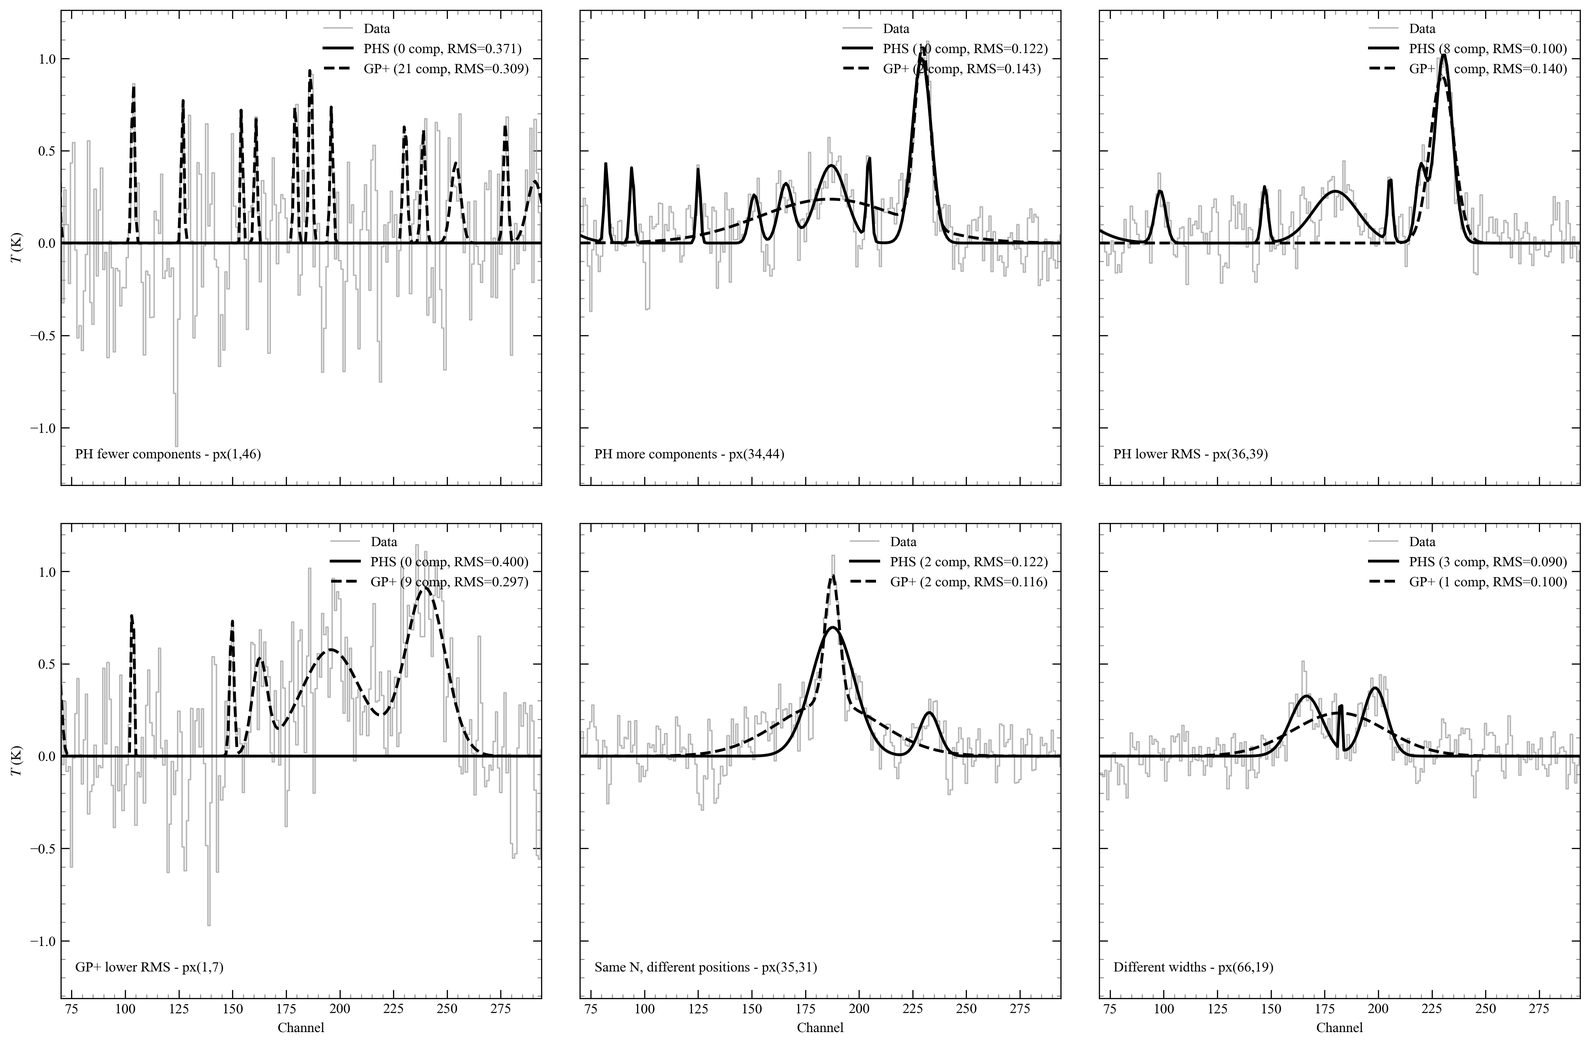
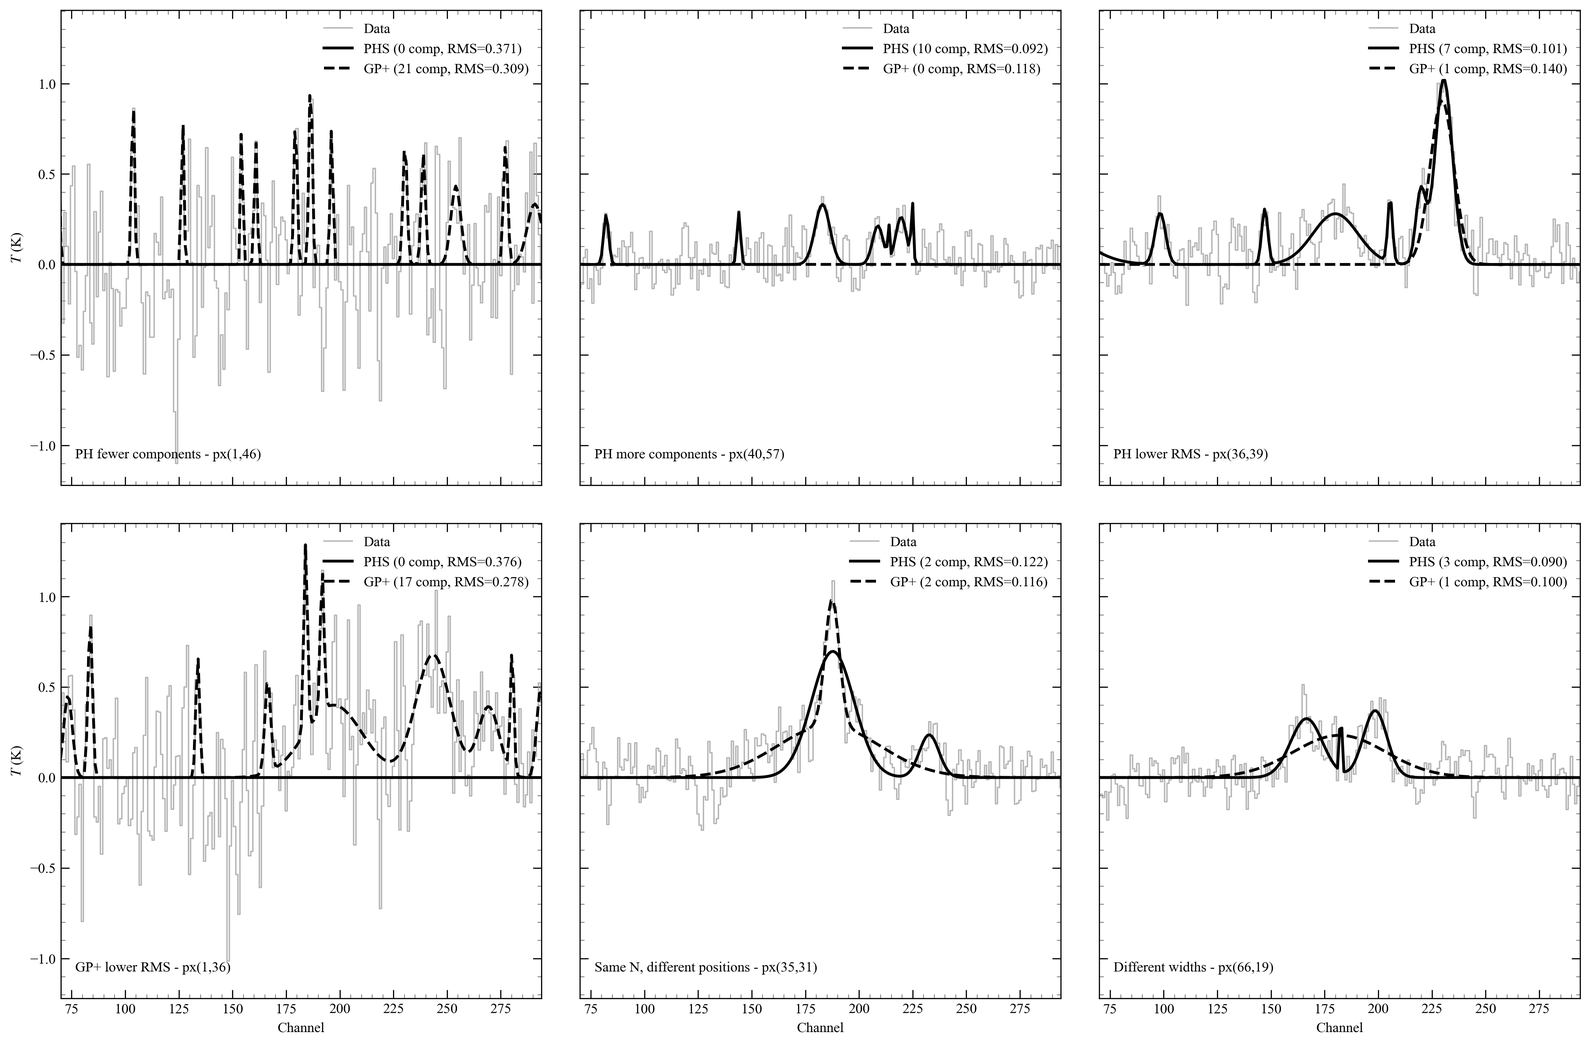
fix(phspectra): set default beta=3.5

diff --git a/packages/benchmarks/src/benchmarks/commands/train_synthetic.py b/packages/benchmarks/src/benchmarks/commands/train_synthetic.py
@@ -290,9 +290,9 @@ def _evaluate_one(args: _WorkItem) -> _EvalResult:
 
 @click.command("train-synthetic")
 @click.option("--n-per-category", default=50, show_default=True)
-@click.option("--beta-min", default=3.8, show_default=True)
+@click.option("--beta-min", default=2.0, show_default=True)
 @click.option("--beta-max", default=4.5, show_default=True)
-@click.option("--beta-steps", default=12, show_default=True)
+@click.option("--beta-steps", default=16, show_default=True)
 @click.option("--seed", default=2026_02_12, show_default=True)
 def train_synthetic(
     n_per_category: int,

diff --git a/packages/benchmarks/src/benchmarks/commands/pre_compute.py b/packages/benchmarks/src/benchmarks/commands/pre_compute.py
@@ -72,7 +72,7 @@ def _merge_extra_pixels(
 
 @click.command("pre-compute")
 @click.option("--n-spectra", default=None, type=int, help="Number of spectra (default: all eligible).")
-@click.option("--beta", default=3.8, show_default=True)
+@click.option("--beta", default=3.5, show_default=True)
 @click.option("--seed", default=DEFAULT_SEED, show_default=True)
 @click.option("--output-dir", default=os.path.join(CACHE_DIR, "compare-docker"), show_default=True)
 @click.option(

diff --git a/packages/benchmarks/src/benchmarks/commands/train_beta.py b/packages/benchmarks/src/benchmarks/commands/train_beta.py
@@ -76,7 +76,7 @@ def _load_training_set(
     show_default=True,
     help="Directory with spectra.npz from ``pre-compute``.",
 )
-@click.option("--beta-min", default=3.8, show_default=True)
+@click.option("--beta-min", default=2.0, show_default=True)
 @click.option("--beta-max", default=4.5, show_default=True)
 @click.option("--beta-steps", default=16, show_default=True)
 @click.option(

diff --git a/packages/benchmarks/src/benchmarks/commands/pipeline.py b/packages/benchmarks/src/benchmarks/commands/pipeline.py
@@ -220,7 +220,7 @@ def _poll_progress(
     "raw_params",
     multiple=True,
     type=str,
-    help="fit_gaussians param as key=value (e.g. --param beta=3.8).",
+    help="fit_gaussians param as key=value (e.g. --param beta=3.5).",
 )
 @click.option("--run-id", default=None, help="Resume polling an existing run (skip upload).")
 @click.option(

diff --git a/packages/infrastructure/lambda/worker/handler.py b/packages/infrastructure/lambda/worker/handler.py
@@ -242,7 +242,7 @@ def _process_chunk(chunk_key: str, survey: str, params: dict[str, object]) -> di
     y_coords = data["y"]
 
     fit_kwargs = _build_fit_kwargs(params)
-    beta = fit_kwargs.get("beta", 3.8)
+    beta = fit_kwargs.get("beta", 3.5)
 
     signal_mod.signal(signal_mod.SIGALRM, _alarm_handler)
     failed_indices: list[int] = []

diff --git a/packages/benchmarks/src/benchmarks/commands/pipeline_grs.py b/packages/benchmarks/src/benchmarks/commands/pipeline_grs.py
@@ -154,7 +154,7 @@ def _poll_all_progress(
     "raw_params",
     multiple=True,
     type=str,
-    help="fit_gaussians param as key=value (e.g. --param beta=3.8).",
+    help="fit_gaussians param as key=value (e.g. --param beta=3.5).",
 )
 @click.option(
     "--stall-timeout",

diff --git a/packages/phspectra/src/phspectra/decompose.py b/packages/phspectra/src/phspectra/decompose.py
@@ -379,7 +379,7 @@ def _refine_iteration(  # pylint: disable=too-many-arguments
 def fit_gaussians(
     signal: NDArray[np.floating],
     *,
-    beta: float = 3.8,
+    beta: float = 3.5,
     max_refine_iter: int = 3,
     snr_min: float = 1.5,
     mf_snr_min: float = 5.0,

diff --git a/packages/benchmarks/src/benchmarks/commands/inspect_pixel.py b/packages/benchmarks/src/benchmarks/commands/inspect_pixel.py
@@ -63,7 +63,7 @@ def _compute_zoom(
 )
 @click.option(
     "--betas",
-    default="3.65,3.80,3.95",
+    default="3.35,3.50,3.65",
     show_default=True,
     help="Comma-separated beta values.",
 )

diff --git a/packages/docs/docs/results/beta.md b/packages/docs/docs/results/beta.md
@@ -11,7 +11,7 @@ The main tuning parameter in phspectra is $\beta$, the persistence threshold in 
 We evaluated $\beta$ on two independent benchmarks:
 
 1. **Synthetic spectra** (350 spectra with known ground-truth components across 7 difficulty categories)
-2. **Real GRS spectra** (1000 pixels from the Galactic Ring Survey test field, scored against GaussPy+ catalog decompositions)
+2. **Real GRS spectra** (52 hand-curated spectra from the Galactic Ring Survey, scored against human-labeled decompositions)
 
 ### Synthetic data: controlled benchmark
 
@@ -31,7 +31,7 @@ The real-data benchmark above compares phspectra against GaussPy+ (another algor
 
 All spectra use GRS-realistic parameters: 424 channels with additive Gaussian noise at $\sigma = 0.25$ K. Because the true components are known exactly, $F_1$ measures _true accuracy_ rather than agreement with another algorithm.
 
-For each spectrum we sweep $\beta$ from 3.8 to 4.5, decompose with PHSpectra, and score using Hungarian matching with the [Lindner et al. (2015)](https://arxiv.org/abs/1409.2840) criteria.
+For each spectrum we sweep $\beta$ from 2.0 to 4.5, decompose with PHSpectra, and score using Hungarian matching with the [Lindner et al. (2015)](https://arxiv.org/abs/1409.2840) criteria.
 
 ```bash
 uv run benchmarks train-synthetic
@@ -43,14 +43,14 @@ uv run benchmarks train-synthetic
   <img src="/img/results/synthetic-f1.png" alt="Synthetic F1 vs beta" />
   <figcaption>
 
-**Figure 1.** $F_1$ score as a function of the persistence threshold $\beta$ for seven synthetic spectrum categories (350 spectra, $\sigma = 0.25$ K). Each panel groups categories by difficulty type; the solid line shows the overall $F_1$. Performance varies by only 0.015 across the full sweep from $\beta = 3.8$ to $4.5$. Generated by `uv run benchmarks train-synthetic`.
+**Figure 1.** $F_1$ score as a function of the persistence threshold $\beta$ for seven synthetic spectrum categories (350 spectra, $\sigma = 0.25$ K). Each panel groups categories by difficulty type; the solid line shows the overall $F_1$. Performance varies by only 0.040 across the full sweep from $\beta = 2.0$ to $4.5$. Generated by `uv run benchmarks train-synthetic`.
 
   </figcaption>
 </figure>
 
 The key observations:
 
-1. **$F_1$ varies by only 0.015** across the full $\beta$ sweep (0.899 at $\beta=3.8$ to 0.885 at $\beta=4.5$). This confirms that $\beta$ sensitivity is negligible on ground-truth data.
+1. **$F_1$ varies by only 0.040** across the full $\beta$ sweep (0.918 at $\beta=2.0$ to 0.885 at $\beta=4.5$, peaking at 0.925 at $\beta=2.8$). This confirms that $\beta$ sensitivity is low on ground-truth data.
 
 2. **The difficulty gradient follows expectations.** Multi-component separated spectra score highest, while blended multi-component spectra are the hardest. This validates that the benchmark categories genuinely span the difficulty spectrum.
 
@@ -60,32 +60,32 @@ The key observations:
   <img src="/img/results/synthetic-errors.png" alt="Synthetic error distributions" />
   <figcaption>
 
-**Figure 2.** Log-ratio error distributions $\ln(Q_{\rm fit} / Q_{\rm true})$ for matched component parameters at the optimal $\beta = 3.8$. From left to right: amplitude, position, and width. Box plots show the median and interquartile range for each category; the dashed line marks perfect recovery. Generated by `uv run benchmarks train-synthetic`.
+**Figure 2.** Log-ratio error distributions $\ln(Q_{\rm fit} / Q_{\rm true})$ for matched component parameters at the optimal $\beta = 2.8$. From left to right: amplitude, position, and width. Box plots show the median and interquartile range for each category; the dashed line marks perfect recovery. Generated by `uv run benchmarks train-synthetic`.
 
   </figcaption>
 </figure>
 
-In Figure 2, all three panels are tightly centred on zero for most categories. Position recovery is particularly precise, with log-ratios of order $10^{-3}$. The Single Faint (SF) and Multi Blended (MB) categories show the widest spread, consistent with their higher intrinsic difficulty.
+In Figure 2, all three panels are tightly centred on zero for most categories. Position recovery is particularly precise, with log-ratios of order $10^{-3}$. The Multi Blended (MB) category shows the widest spread, consistent with its higher intrinsic difficulty.
 
-The per-category $F_1$ at the optimal $\beta = 3.8$:
+The per-category $F_1$ at the optimal $\beta = 2.8$:
 
 | Category        | Label | $F_1$ |
 | --------------- | ----- | ----- |
-| Multi Separated | MS    | 0.979 |
-| Single Bright   | SB    | 0.971 |
-| Single Narrow   | SN    | 0.933 |
-| Single Broad    | SBd   | 0.932 |
-| Crowded         | C     | 0.921 |
-| Single Faint    | SF    | 0.769 |
-| Multi Blended   | MB    | 0.749 |
+| Multi Separated | MS    | 0.975 |
+| Single Bright   | SB    | 0.962 |
+| Single Broad    | SBd   | 0.952 |
+| Single Narrow   | SN    | 0.943 |
+| Crowded         | C     | 0.936 |
+| Single Faint    | SF    | 0.907 |
+| Multi Blended   | MB    | 0.820 |
 
 ### Limitation: tightly blended components
 
-The Multi Blended (MB) and Single Faint (SF) categories consistently score lowest across all $\beta$ values. The root cause is structural:
+The Multi Blended (MB) category consistently scores lowest across all $\beta$ values. The root cause is structural:
 
 **Persistence merges close peaks.** Persistent homology identifies peaks by their _prominence_: a feature must rise above its surrounding valley to register as a separate birth&ndash;death pair. When two Gaussians are separated by less than $\sim 2\sigma$, their sum looks like a single broad peak to the filtration &mdash; the weaker component appears as a shoulder rather than a distinct local maximum. In these cases the persistence diagram contains only one high-persistence feature where the ground truth has two, and the algorithm never gets a chance to fit the missing component.
 
-This is a known structural limitation of persistence-based peak detection for closely blended lines, shared with any prominence-based method. For spectra where components are separated by $> 3\sigma$, the algorithm performs well (MS category $F_1 = 0.979$); for separations below $\sim 2\sigma$, the merged persistence feature is the binding constraint.
+This is a known structural limitation of persistence-based peak detection for closely blended lines, shared with any prominence-based method. For spectra where components are separated by $> 3\sigma$, the algorithm performs well (MS category $F_1 = 0.975$); for separations below $\sim 2\sigma$, the merged persistence feature is the binding constraint.
 
 ### Real data: beta training
 
@@ -94,33 +94,33 @@ uv run benchmarks download
 uv run benchmarks train --training-set packages/train-gui/data/training_set.json
 ```
 
-Sweeping $\beta$ from 3.8 to 4.5 on 1000 GRS spectra shows a nearly flat $F_1$ curve (Figure 3):
+Sweeping $\beta$ from 2.0 to 4.5 on 52 hand-curated GRS spectra shows a gently peaked $F_1$ curve (Figure 3):
 
 <figure class="scientific">
   <img src="/img/results/f1-beta-sweep.png" alt="Beta training on GRS spectra" />
   <figcaption>
 
-**Figure 3.** $F_1$, precision, and recall as a function of $\beta$ on 1000 real GRS spectra, scored against hand-curated training set decompositions. The large precision--recall gap reflects unlabeled components in the curated set rather than false detections (see text). Generated by `uv run benchmarks train --training-set packages/train-gui/data/training_set.json`.
+**Figure 3.** $F_1$, precision, and recall as a function of $\beta$ on 52 real GRS spectra, scored against hand-curated training set decompositions. The large precision--recall gap reflects unlabeled components in the curated set rather than false detections (see text). Generated by `uv run benchmarks train --training-set packages/train-gui/data/training_set.json`.
 
   </figcaption>
 </figure>
 
-Considering these results and the ones from the previous section, I decided to set the default $\beta = 3.8$. However, the variation across the entire sweep is only $\Delta F_1 \approx 0.015$ &mdash; the algorithm is remarkably stable.
+The optimal $\beta$ on real data is 3.67 ($F_1 = 0.576$, $P = 0.426$, $R = 0.888$), with $F_1$ variation of 0.084 across the sweep. Combining these results with the synthetic benchmark (optimal $\beta = 2.8$), I set the default $\beta = 3.5$ as a compromise that favours precision on real data while remaining well within the flat region of the synthetic curve.
 
 #### Interpreting precision and recall
 
 Figure 3 shows a large gap between recall ($\approx 0.9$) and precision ($\approx 0.4$). The training set here consists of hand-curated decompositions from real GRS spectra, so these metrics are measured against human-labeled ground truth.
 
-**Recall $\approx 0.9$ (good).** PHSpectra recovers about 90% of the components in the curated training set. When a human labels a feature as a real component, PHSpectra almost always finds it. Very few labeled components are missed.
+**Recall $\approx 0.89$ (good).** PHSpectra recovers about 89% of the components in the curated training set. When a human labels a feature as a real component, PHSpectra almost always finds it. Very few labeled components are missed.
 
-**Precision $\approx 0.4$ (needs context).** Only about 40% of PHSpectra's detected components have a matching component in the curated set. This means PHSpectra consistently finds more components than the human labeler marked. These extra detections fall into two categories:
+**Precision $\approx 0.43$ (needs context).** Only about 43% of PHSpectra's detected components have a matching component in the curated set. This means PHSpectra consistently finds more components than the human labeler marked. These extra detections fall into two categories:
 
 - **Real features the labeler did not annotate.** Hand-curated sets are rarely exhaustive &mdash; faint or partially blended lines may be left unlabeled, particularly in crowded regions. PHSpectra's persistence-based detection can resolve features that are easy to overlook during manual inspection.
 - **Possible over-decomposition.** Some of the extra components may split a single broad feature into multiple narrower ones, producing a valid but different decomposition.
 
 The key observation is that this precision/recall split is **stable across the full $\beta$ sweep**: raising $\beta$ does not meaningfully improve precision, because the extra components are not noise artifacts (those would vanish at higher $\beta$). They reflect genuine detections that fall outside the scope of the curated labels.
 
-This interpretation is supported by the synthetic benchmark, where ground truth is known exactly: there, precision and recall are both high ($F_1 = 0.899$), confirming that PHSpectra does not systematically hallucinate components.
+This interpretation is supported by the synthetic benchmark, where ground truth is known exactly: there, precision and recall are both high ($F_1 = 0.925$), confirming that PHSpectra does not systematically hallucinate components.
 
 ## Why this matters
 
@@ -128,8 +128,8 @@ GaussPy requires a trained smoothing parameter $\alpha$ that is sensitive to the
 
 In contrast, PHSpectra's $\beta$ parameter is:
 
-- **Survey-agnostic**: values in the range $\beta = 3.8$&ndash;$4.0$ work well across both real and synthetic data with fundamentally different noise structures.
-- **Robust to perturbation**: performance degrades gracefully rather than collapsing at non-optimal values. There is no cliff &mdash; the $F_1$ curve is flat.
-- **Physically interpretable**: $\beta$ directly controls the minimum significance (in $\sigma$) for a peak to be considered real. A value of $\beta = 3.8$ means "reject anything less significant than a $3.8\sigma$ fluctuation," which is a natural and intuitive threshold.
+- **Survey-agnostic**: values in the range $\beta = 2.8$&ndash;$3.7$ work well across both real and synthetic data with fundamentally different noise structures.
+- **Robust to perturbation**: performance degrades gracefully rather than collapsing at non-optimal values. There is no cliff &mdash; both $F_1$ curves vary by less than 0.09 across the full $2.0$&ndash;$4.5$ sweep.
+- **Physically interpretable**: $\beta$ directly controls the minimum significance (in $\sigma$) for a peak to be considered real. A value of $\beta = 3.5$ means "reject anything less significant than a $3.5\sigma$ fluctuation," which is a natural and intuitive threshold.
 
-The default value of $\beta = 3.8$ is recommended for general use.
+The default value of $\beta = 3.5$ is recommended for general use.

diff --git a/packages/docs/docs/idea-and-plan/persistent-homology-primer.md b/packages/docs/docs/idea-and-plan/persistent-homology-primer.md
@@ -86,14 +86,14 @@ The persistence diagram provides a compact summary of every birth-death event in
   <img src="/img/results/persistence-diagram.png" alt="Persistence diagram" />
   <figcaption>
 
-**Figure 2.** Persistence diagram for the synthetic spectrum of Figure 1. Each point represents a birth--death pair $(b, d)$; distance from the diagonal $b = d$ equals persistence. The three real peaks (red) are clearly separated from noise points clustered near the diagonal. The dashed line marks the persistence threshold $\pi_{\min} = \beta \times \sigma_{\rm rms}$ with $\beta = 3.8$ and $\sigma_{\rm rms} = 0.08$. Generated by `uv run benchmarks persistence-plot`; see [Reproducing results](../results/reproducing).
+**Figure 2.** Persistence diagram for the synthetic spectrum of Figure 1. Each point represents a birth--death pair $(b, d)$; distance from the diagonal $b = d$ equals persistence. The three real peaks (red) are clearly separated from noise points clustered near the diagonal. The dashed line marks the persistence threshold $\pi_{\min} = \beta \times \sigma_{\rm rms}$ with $\beta = 3.5$ and $\sigma_{\rm rms} = 0.08$. Generated by `uv run benchmarks persistence-plot`; see [Reproducing results](../results/reproducing).
 
   </figcaption>
 </figure>
 
-In Figure 2, the three real peaks (red points) are clearly separated from the cluster of noise points hugging the diagonal. The dashed line parallel to the diagonal marks the persistence threshold $\pi_{\min} = \beta \times \sigma_{\rm rms}$. For this synthetic signal ($\sigma_{\rm rms} = 0.08$, $\beta = 3.8$), the threshold is $\pi_{\min} = 0.30$. Points below this line -- farther from the diagonal -- have persistence exceeding $\pi_{\min}$ and are retained as real peaks. Points above the line are rejected as noise.
+In Figure 2, the three real peaks (red points) are clearly separated from the cluster of noise points hugging the diagonal. The dashed line parallel to the diagonal marks the persistence threshold $\pi_{\min} = \beta \times \sigma_{\rm rms}$. For this synthetic signal ($\sigma_{\rm rms} = 0.08$, $\beta = 3.5$), the threshold is $\pi_{\min} = 0.28$. Points below this line -- farther from the diagonal -- have persistence exceeding $\pi_{\min}$ and are retained as real peaks. Points above the line are rejected as noise.
 
-The visual gap between signal and noise in Figure 2 illustrates why $\beta$ is insensitive: any threshold line drawn through this gap selects the same three peaks. Moving $\beta$ from 3.8 to 4.5 shifts the line slightly but does not change which points it separates -- the result is stable across a wide range of thresholds.
+The visual gap between signal and noise in Figure 2 illustrates why $\beta$ is insensitive: any threshold line drawn through this gap selects the same three peaks. Moving $\beta$ from 3.5 to 4.5 shifts the line slightly but does not change which points it separates -- the result is stable across a wide range of thresholds.
 
 This is the fundamental advantage over derivative-based methods: instead of relying on regularization to suppress noise (where too little creates false peaks and too much destroys real ones), persistence ranks every candidate peak by an intrinsic topological measure that is robust to the noise level.
 
@@ -183,7 +183,7 @@ $$
 \pi_{\min} = \beta \times \sigma_{\rm rms}
 $$
 
-where $\beta = 3.8$ is the default (the main tuning parameter). The algorithm:
+where $\beta = 3.5$ is the default (the main tuning parameter). The algorithm:
 
 1. Sort all channel indices by decreasing signal value.
 2. Process each index: mark it visited, check if its left/right neighbors are already visited.

diff --git a/packages/docs/docs/library/api.md b/packages/docs/docs/library/api.md
@@ -14,7 +14,7 @@ from phspectra import fit_gaussians
 components = fit_gaussians(
     signal,              # 1-D NumPy array of flux values
     *,
-    beta=3.8,            # persistence threshold in units of noise sigma
+    beta=3.5,            # persistence threshold in units of noise sigma
     max_refine_iter=3,   # maximum refinement iterations
     snr_min=1.5,         # minimum amplitude SNR
     mf_snr_min=5.0,      # minimum matched-filter SNR
@@ -28,7 +28,7 @@ components = fit_gaussians(
 | Parameter         | Type                   | Default      | Description                                                                                                                          |
 | ----------------- | ---------------------- | ------------ | ------------------------------------------------------------------------------------------------------------------------------------ |
 | `signal`          | `NDArray[np.floating]` | _(required)_ | 1-D spectrum (flux values)                                                                                                           |
-| `beta`            | `float`                | `3.8`        | Persistence threshold in units of $\sigma_\mathrm{rms}$. The threshold is computed as $\beta \times \sigma_\mathrm{rms}$.            |
+| `beta`            | `float`                | `3.5`        | Persistence threshold in units of $\sigma_\mathrm{rms}$. The threshold is computed as $\beta \times \sigma_\mathrm{rms}$.            |
 | `max_refine_iter` | `int`                  | `3`          | Maximum refinement iterations.                                                                                                       |
 | `snr_min`         | `float`                | `1.5`        | Minimum amplitude $A / \sigma_\mathrm{rms}$ for a component to survive validation.                                                   |
 | `mf_snr_min`      | `float`                | `5.0`        | Minimum matched-filter SNR: $\mathrm{SNR}_\mathrm{mf} = (A/\sigma_\mathrm{rms})\sqrt{\sigma}\;\pi^{1/4}$                             |

diff --git a/packages/docs/docs/intro.md b/packages/docs/docs/intro.md
@@ -13,7 +13,7 @@ This project explores a novel approach to decomposing astronomical spectra into 
 
 The main tuning parameter in phspectra is $\beta$, the persistence threshold in units of the estimated noise $\sigma_\mathrm{rms}$. A peak in the spectrum is retained as a candidate Gaussian component only if its topological persistence -- the height difference between its birth (peak value) and death (the level at which it merges with a taller neighbor) -- exceeds $\beta \cdot \sigma_\mathrm{rms}$. In other words, $\beta$ sets the minimum significance, in units of $\sigma$, for a peak to be considered real rather than noise.
 
-The default value $\beta = 3.8$ works well across both real and synthetic data. Performance is remarkably insensitive to $\beta$: sweeping from 3.8 to 4.5 changes $F_1$ by less than 0.01 (see [Beta sensitivity](results/beta)). Because $\beta$ has a direct physical interpretation -- minimum peak significance in units of $\sigma$ -- a single default generalizes across surveys without a training step.
+The default value $\beta = 3.5$ works well across both real and synthetic data. Performance is remarkably insensitive to $\beta$: sweeping from 2.0 to 4.5 changes $F_1$ by less than 0.09 (see [Beta sensitivity](results/beta)). Because $\beta$ has a direct physical interpretation -- minimum peak significance in units of $\sigma$ -- a single default generalizes across surveys without a training step.
 
 ## What problem does this solve?
 
